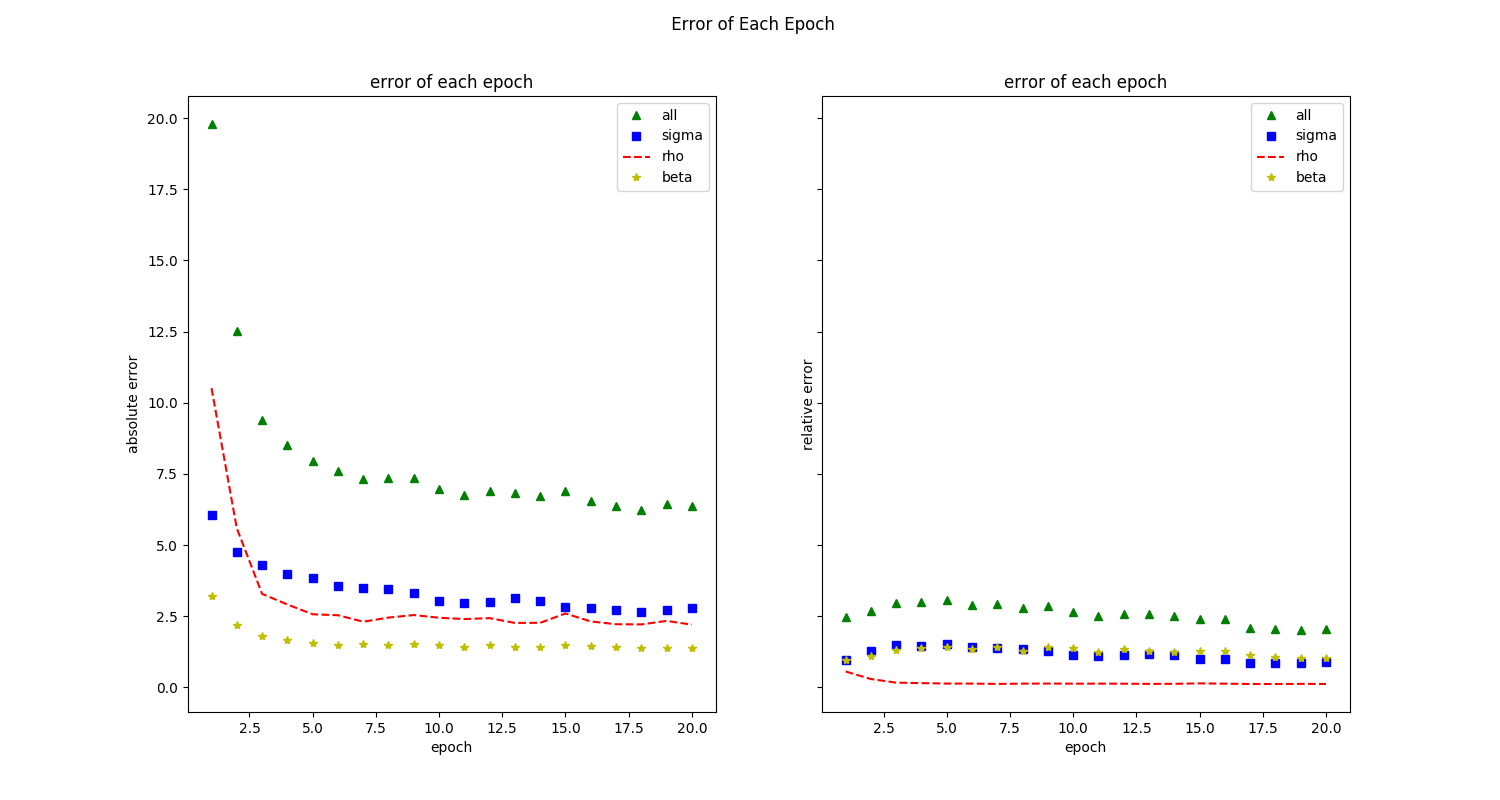
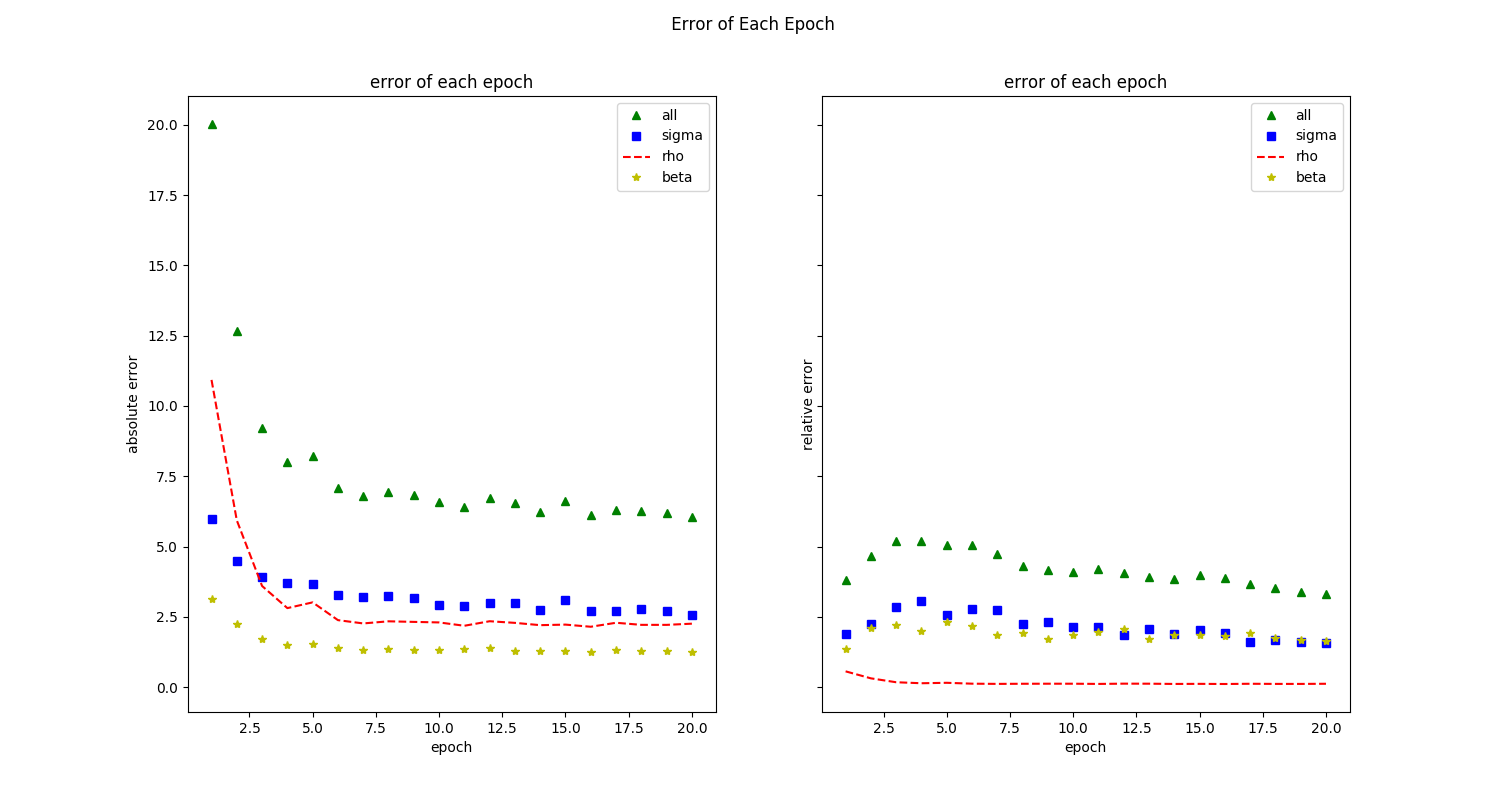
par0

diff --git a/lorenz_nn.py b/lorenz_nn.py
@@ -8,9 +8,9 @@ import torch
 import torch.nn as nn
 from torch.autograd import Variable
 my_path = '/home/peiguo/Lorenz_MLP/training_fig'
-my_results_path_epoch100 = '/home/peiguo/Lorenz_MLP/results/epoch100' 
-my_results_path_epoch200 = '/home/peiguo/Lorenz_MLP/results/epoch200' 
-total_samples = 500
+my_results_path_epoch100 = '/mv_users/peiguo/garage/pytorch/Lorenz_MLP/results/epoch100' 
+my_results_path_epoch200 = '/mv_users/peiguo/garage/pytorch/Lorenz_MLP/results/epoch200' 
+total_samples = 5000
 
 def dataset(total_samples):
     def f(state,t):
@@ -109,7 +109,7 @@ loss_fn = nn.MSELoss(reduction='sum').cuda()
 learning_rate = 1e-5
 #learning_rate = 1e-3
 
-EPOCH = 20
+EPOCH = 100
 
 # define the optimizer
 optimizer = torch.optim.SGD(model.parameters(), lr=learning_rate)
@@ -335,9 +335,9 @@ ax4.set_xlabel('samples')
 ax4.set_ylabel('relative error')
 
 
-fig1.savefig(os.path.join(my_results_path_epoch100, 'all_epochs'))
-fig2.savefig(os.path.join(my_results_path_epoch100, 'last_epochs_abo'))
-fig3.savefig(os.path.join(my_results_path_epoch100, 'last_epochs_rela'))
+fig1.savefig(os.path.join(my_results_path_epoch100, 'all_par0'))
+fig2.savefig(os.path.join(my_results_path_epoch100, 'last_abo_par0'))
+fig3.savefig(os.path.join(my_results_path_epoch100, 'last__rela_par0'))
 
 """
 plt.figure(1)
